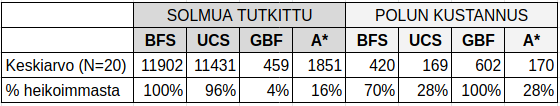
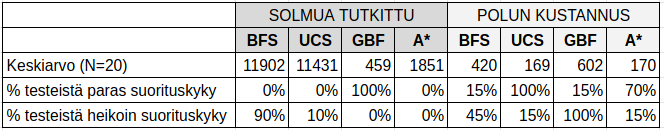
suorituskykyvertailu

diff --git a/documentation/implementation.md b/documentation/implementation.md
@@ -17,17 +17,20 @@
 
 (tulossa myöhemmin)
 
-## Algoritmien suorituskykyvertailu ja O-analyysivertailu
+## Algoritmien O-analyysi
 
+(tulossa myöhemmin)
 
-### Suorituskyvyn arviointiin käytetyt metriikat ja otoskoko
+## Algoritmien empiirinen suorituskykyvertailu 
+
+### Otoskoko ja vertailuun käytetyt metriikat 
+
+Empiiristä suorituskykyvertailua varten kaikki algortimit ajettiin 20 kertaan, jotta saatiin tämän projektin tarpeita ajatellen tilastollisesti riittävän kattava otos aikaiseksi algoritmien eroista.
 
 Algoritmien suorituskykyä vertaillaan kahdella metriikalla:
 * **Polun kustannus**: Algoritmin löytämän polun kokonaiskustannus. Tavallisesta ruudusta kertyy yksi kustannuspiste, puun sisältävästä ruudusta 5 pistettä. Algoritmin suorituskyky on aina sitä parempi, mitä pienempi polun kustannus on.
 * **Solmua tutkittu**: Solmujen määrä, joissa algoritmi vierailee. Tämän metriikan voi ajatella vertautuvan algoritmin suorittamiseen kuluvaan aikaan. Algoritmin suorituskyky on aina sitä parempi, mitä vähemmän solmuja tutkitaan.
-
-Analyysia varten kaikki algortimit ajettiin 20 kertaan, jotta saatiin tilastollisesti riittävän kattava otos aikaiseksi algoritmien eroista. 
-
+ 
 
 ### Suorituskykytestien tulokset
 
@@ -35,35 +38,37 @@ Analyysia varten kaikki algortimit ajettiin 20 kertaan, jotta saatiin tilastolli
 
 ![Taulukko 1](./analysis/taulukko1.png)
 
-[Taulukoon 2](./analysis/taulukko2.png) on laskettu kaksi vertailevaa tunnuslukua per metriikka:
-* Algoritmikohtainen keskiarvo 
-* Keskiarvon osuus ryhmän heikoimmasta keskiarvosta. Kaava: ``algoritmin keskiarvo / heikoimman algoritmin keskiarvo`` 
+[Taulukoon 2](./analysis/taulukko2.png) on laskettu kolme vertailevaa tunnuslukua per metriikka:
+* **Keskiarvo (N=20)**: testien keskiarvo kyseiselle algoritmille  
+* **% testeistä paras suorituskyky**: %-osuus testeistä, joissa algoritmin suorituskyky ollut paras
+* **% testeistä heikoin suorituskyky**: %-osuus testeistä, joissa algoritmin suorituskyky ollut heikoin
+
+Testeistä todettakoon, että kolmessa tapauksessa arvottu reitti alkusolmusta loppusolmuun on selvästi ollut esteetön, koska kaikilla algoritmeilla on ollut sama polun kustannus. Tällöin kaikilla algoritmeilla on ollut polun kustannuksen osalta sekä paras että heikoin suorituskyky.
 
 ![Taulukko 2](./analysis/taulukko2.png) 
 
 Testien eroja on havainnollistettu kahdella kuvaajalla. 
 
-![Kuvaaja 1](./analysis/kuvaaja1.png)
-
 [Kuvaajasta 1](./analysis/kuvaaja1.png) nähdään tutkittujen solmujen vaihtelu testeittäin per algoritmi.
 
-![Kuvaaja 2](./analysis/kuvaaja2.png)
+![Kuvaaja 1](./analysis/kuvaaja1.png)
 
 [Kuvaajasta 2](./analysis/kuvaaja1.png) nähdään polun kustannuksen vaihtelu testeittäin per algoritmi.
+
+![Kuvaaja 2](./analysis/kuvaaja2.png)
 
 
 ### Analyysi polkualgoritmien suorituskykyeroista
 
 Suorituskykytestien tulokset olivat ennakko-oletusten mukaisia. 
 
-* Perinteinen leveyshaku (BFS): 
+* **Perinteisen leveyshaun (BFS)** suorituskyky on pääsääntöisesti aina heikoin tutkittujen solmujen osalta. Tämä johtuu algoritmin toimintalogiikasta, joka ei lähtökohtaisesti tee mitään karsintaa tutkittavien verkon solmujen osalta: algoritmi käy orjallisesti läpi jokaisen eteentulevan solmun naapurisolmun, kunnes saavuttaa maalisolmun. Myös algoritmin polun kustannus on esteettömiä reittejä lukuunottamatta aina heikompi kuin UCS- ja A*-algoritmeilla, joskin se on usein suorituskykyisempi kuin GBF-algoritmi. Tämä johtuu ainoastaan GBF-algoritmin ahneesta toimintalogiikasta, joka saa sen helposti eksymään labyrintin poukamiin ja siten keräämään negatiivisia lisäpisteitä poukamien reunojen metsäruuduista. 
 
-* Dijkstran Uniform Cost Search (UCS) -algoritmi:
+* **Dijkstran Uniform Cost Search (UCS) -algoritmin** suorituskyky on tutkittujen solmujen osalta aavistuksen parempi kuin leveyshaulla, mikä selittyy sen tavasta priorisoida tutkittavaksi asetettuja solmuja niiden polun kustannuksen mukaan: algoritmi jättää tutkittavien solmujen listan häntäpäähän puusolmut, joten maalisolmun löydyttyä läpikäytävien solmujen listalla on edelleen poikkeuksetta suurin osa eteen tulleista puusolmuista, jotka leveyshaku on kuitenkin ehtinyt tutkia. Puusolmuja on kuitenkin huomattavasti vähemmän kuin normaaleja solmuja, joten ero leveyshaun suorituskykyyn nähden jää hyvin pieneksi. Polun kustannuksen osalta algoritmin suorituskyky on ylivoimainen: se löytää jokaisessa testitapauksessa pienimmän polun kustannuksen. Tämä johtuu siitä, että algoritmi tutkii aina lähtökohtaisesti ensin edullisen kustannuksen normaalit solmut ja kalliimpia puusolmuja vain siinä tapauksessa, jos prioriteettijonossa ei ole normaaleja solmuja tarjolla. Testi vahvistaa siis teorian todeksi: Dijkstran algoritmi löytää aina taatusti edullisimman polun. 
 
-* Greedy Best First (GBF) -algoritmi:
+* **Greedy Best First (GBF) -algoritmin** suorituskyky on ylivoimainen tutkittujen solmujen osalta: se on jokaisessa testissä tutkinut aina pienimmän määrän solmuja. Tämä johtuu algoritmin käyttämästä solmujen priorisointitavasta, joka perustuu ainoastaan maalisolmun Manhattan etäisyyteen tutkittavasta solmusta. Algoritmi jättää siis aina tutkimatta tarkemmin solmut, joiden etäisyys maalisolmusta on pidempi kuin pienimmän mahdollisen Manhattan etäisyyden solmulla. Algoritmin ahneudella on kuitenkin kääntöpuolensa: sillä on jokaisessa testitapauksessa myös kallein polun kustannus, poislukien 3 testitapausta, joissa maali- ja loppusolmun välillä ei ollut esteitä, jolloin algoritmit päätyivät tasapeliin. Algoritmi ei tee eroa normaalin ja puusolmun välillä, joten lisäkustannuksia aiheutuu varsin runsaasti eteentulleista puusolmuista. Erityisen huonosti algoritmi suoriutuu tilanteista, joissa lähtö- ja maalisolmujen välillä on umpikujaan johtavia poukamia. Tällöin algoritmi ohjautuu kulkemaan labyrintin poukamien reunoja pitkin, joista löytyy tyypillisesti paljon puusolmuja, joista kertyy nopeasti suuri lisäkustannus.   
 
-* A*-algoritmi
-
+* **A*-algoritmin** suorituskyky tutkittujen solmujen osalta jää selvästi toiseksi GBF-algoritmiin nähden, mutta se voittaa kuitenkin kirkkaasti BFS- ja UCS-algoritmit. Tämä johtuu algoritmin tavasta priorisoida solmuja: solmun prioriteetti on korkein, jos sen yhteenlaskettu polun kustannus ja Manhattan etäisyys maalisolmusta on pienempi kuin muilla tarkastelulistalle otetuilla solmuilla. GBF-algoritmiin nähden eroa syntyy siis silloin, kun algoritmi pyrki välttämään korkean puusolmun tutkimista, jos se löytää näiden vierestä normaaleja solmuja, joista on pidempi matka maaliin. Huomionarvoista kuitenkin on se, minkälaiset painoarvot normaalile ja puusolmulle on valittu: koska puusolmun painoarvo on vain viisinkertainen normaaliin solmuun nähden, ei algoritmi lähde kiertämään pitkää usean puun muodostamaa metsää, vaan lähtee lopulta kokeilemaan metsän läpi kulkemista. Tällä on suora vaikutus myös polun kustannukseen: useimmissa testitapauksissa viiden puusolmujen lisäkustannus saa algoritmin kiertämään puusolmut ja siten löytämään yhtä optimaalisen polun kuin UCS-algoritmi. Toisinaan suurempi puusolmujen rykelmä on pakottanut algoritmin valitsemaan reitille osuneen puusolmun läpikulkemisen, jolloin polun kokonaiskustannus on saattanut olla aavistuksen UCS-algoritmia pidempi. Polun kustannuksen keskiarvossa on alle prosentin eroavaisuus, joten puiden läpikulkemisia on ollut oletettavasti huomattavan vähän. Painoarvoja muokkaamalla algoritmin suorituskykyä voisi helposti siis muokata: puusolmun kustannuksen painoarvoa höllentämällä polun kustannus saattaisi jonkin verran kasvaa, mutta vastaavasti tutkittujen solmujen määrä laskisi. Ja sama päinvastoin. Optimaalisen tasapainon löytäminen vaatisi herkkyysanalyysia erilaisilla painotuksilla ja useiden lisätestien tekemistä. Toisaalta optimaalinen ratkaisu riippuu myös siitä, kuinka paljon antaa painoarvoa nopeudelle (tutkitut solmut) ja edullisuudelle (polun kustannus). Algoritmin optimointi ei kuitenkaan ollut tämän projektin agendalla, mutta sen automatisointi voisi olla mielenkiintoinen harjoitustyö toisenlaisessa tutkimusasetelmassa.
 
 
 ## Työn mahdolliset puutteet ja parannusehdotukset
@@ -71,3 +76,4 @@ Suorituskykytestien tulokset olivat ennakko-oletusten mukaisia.
 (tulossa myöhemmin)
 
 ## Lähteet
+
